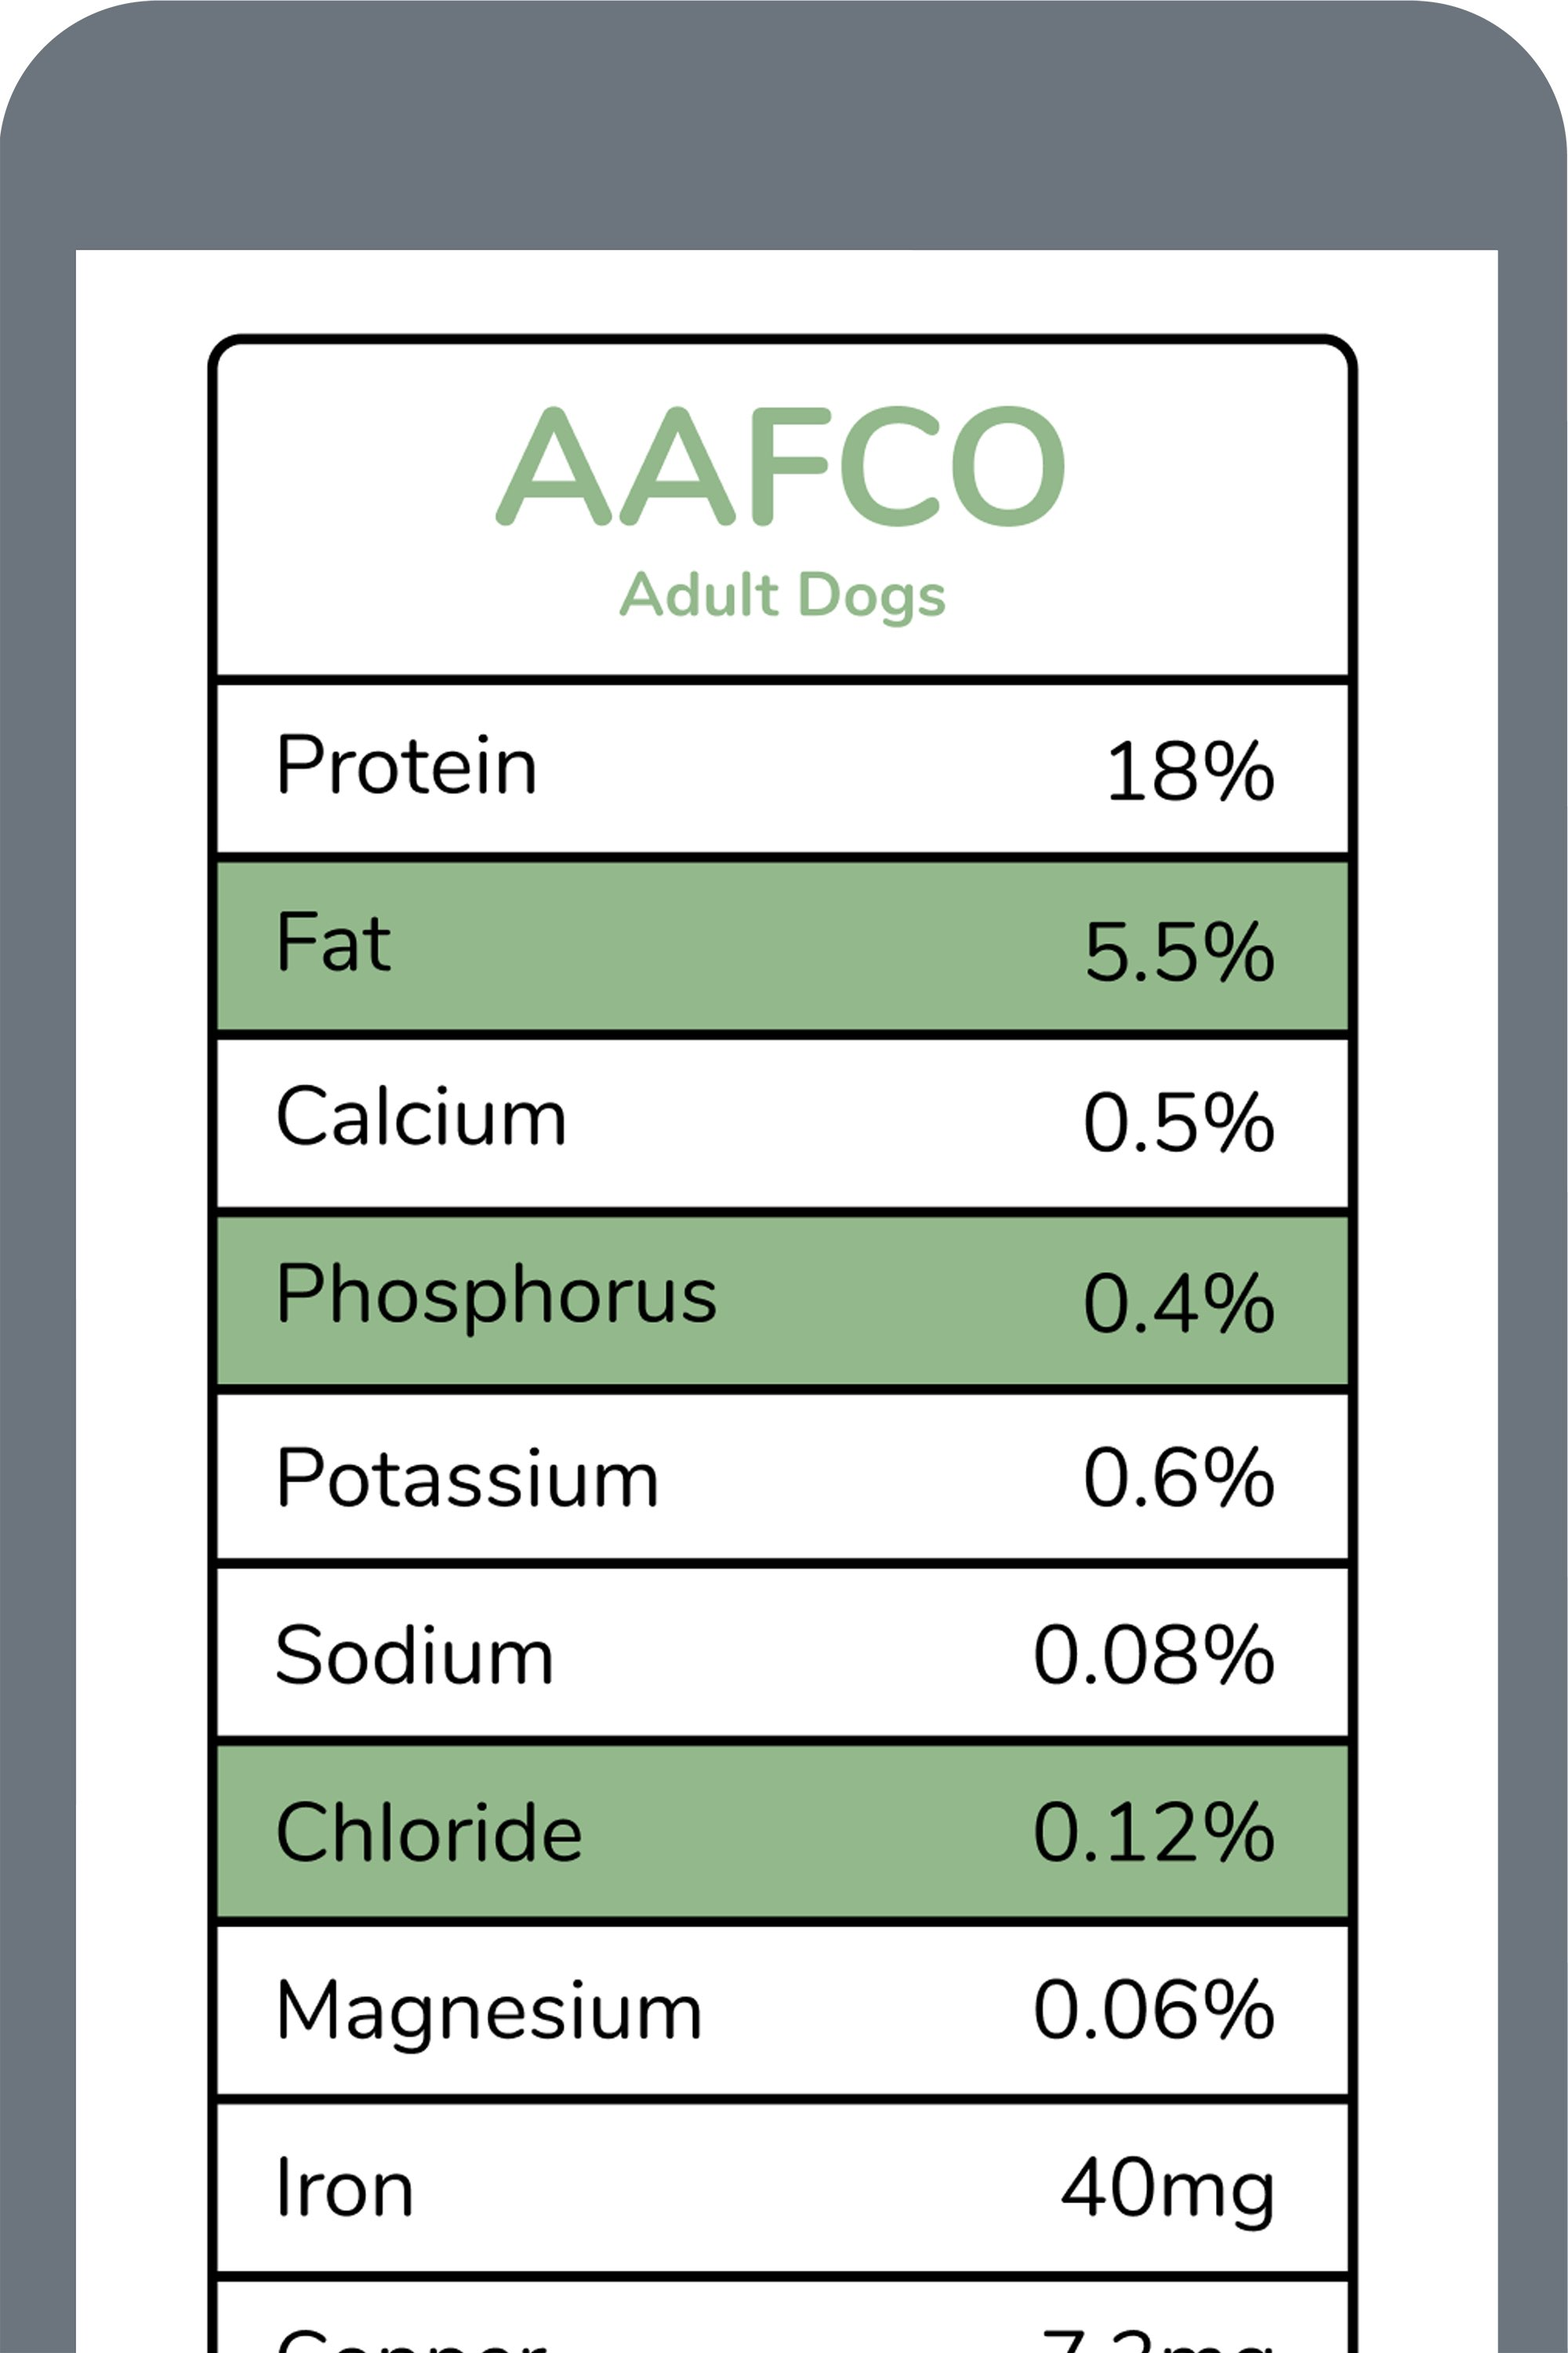
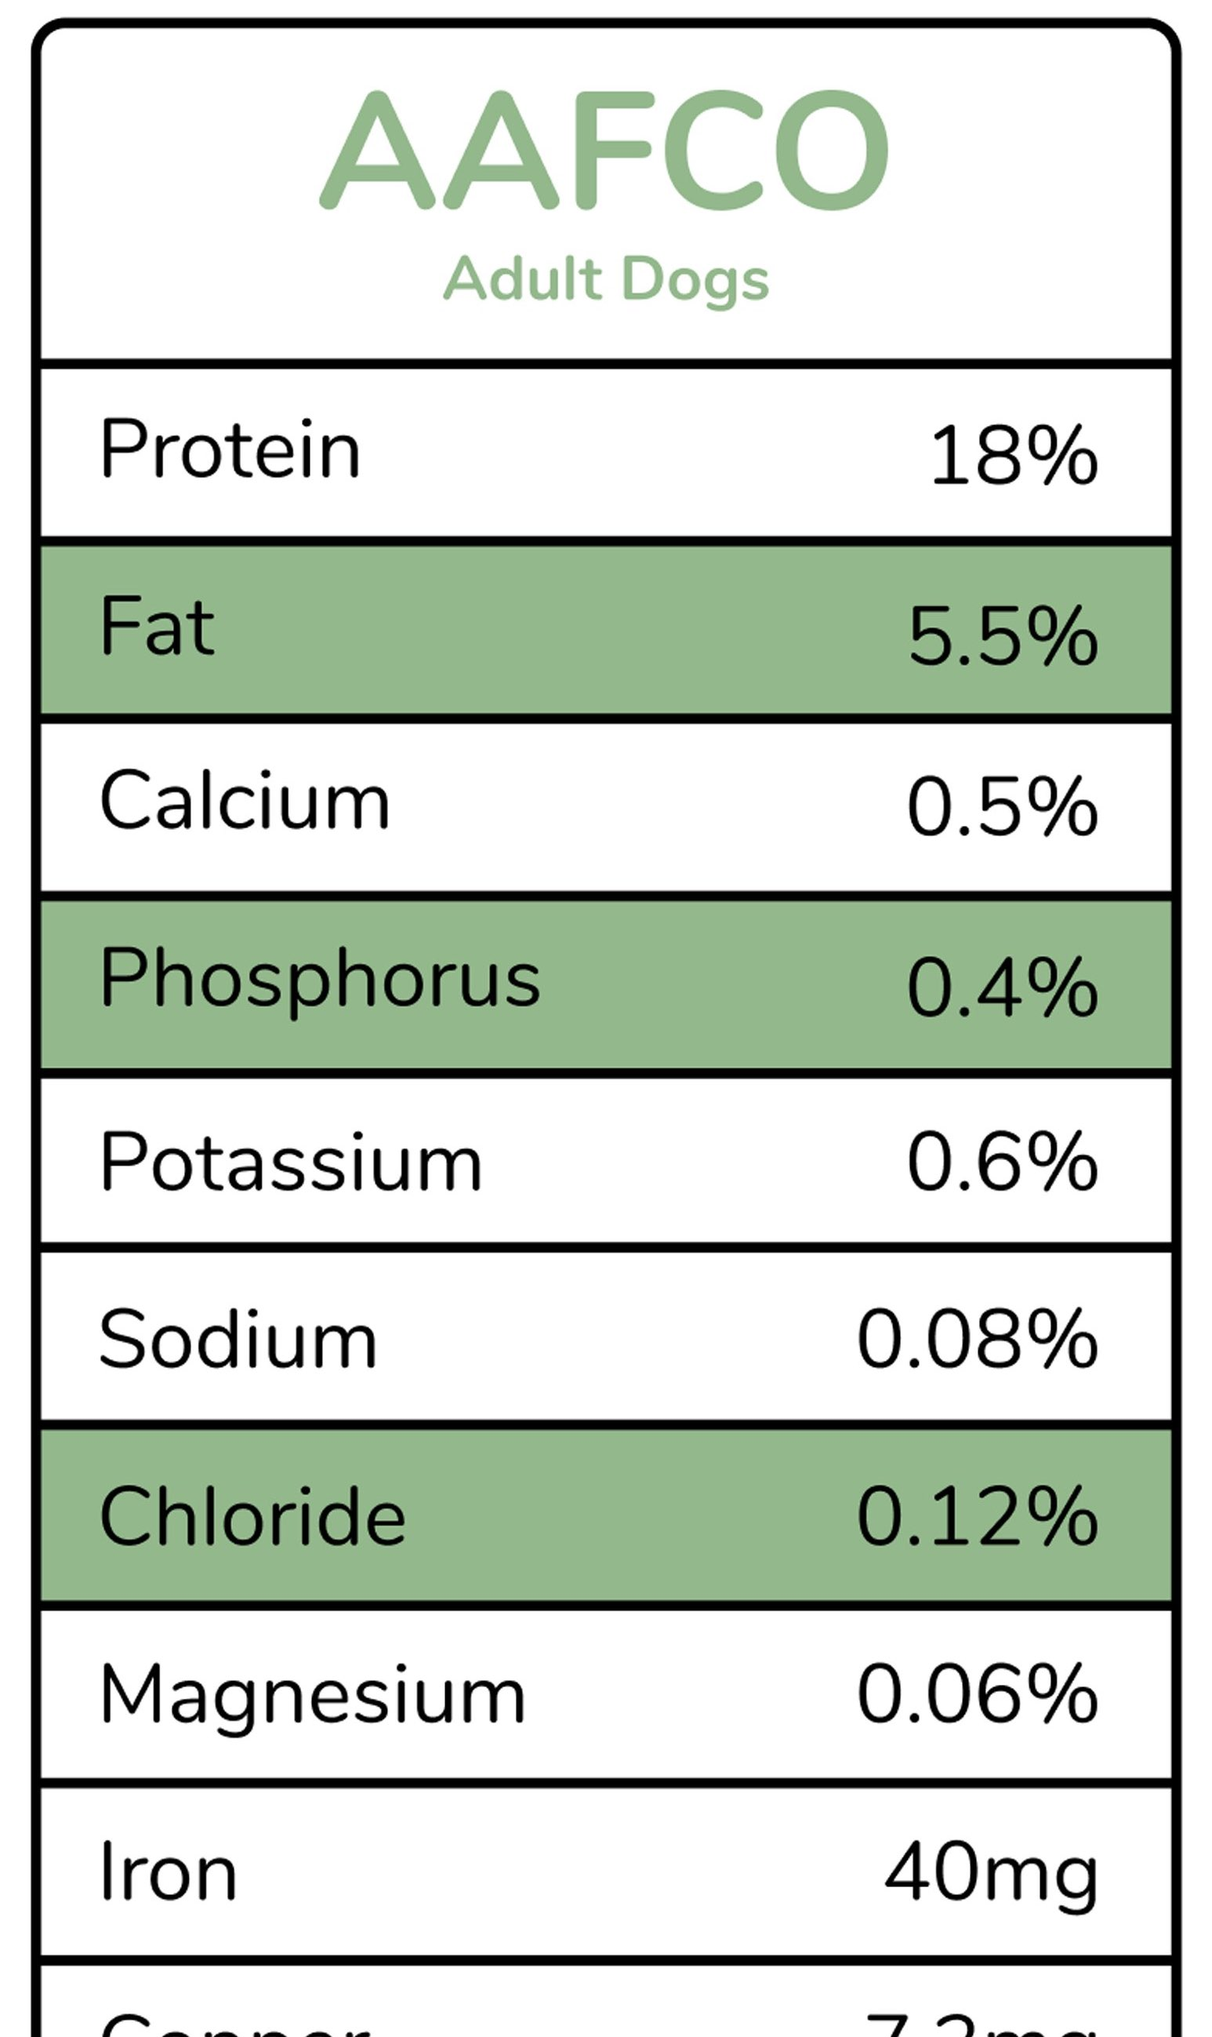
calculator changed

diff --git a/final-website/calculator.html b/final-website/calculator.html
@@ -78,7 +78,7 @@
             <div class="row text-muted">
               <div class="col-12 p-2"> <i class="d-inline fa fa-apple fa-3x"></i> <i class="d-inline fa fa-android fa-3x mx-4"></i> <i class="d-inline fa fa-windows fa-3x"></i> </div>
             </div>
-          </div><img class="img-fluid d-block mx-auto" src="img/AAFCOguideline.jpg" width="500">
+          </div><img class="img-fluid d-block mx-auto" src="img/AAFCOguideline.png">
         </div>
       </div>
     </div>
